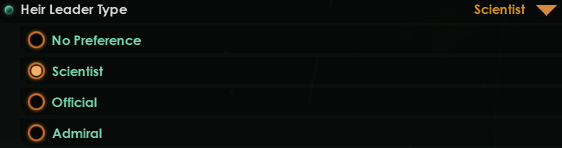
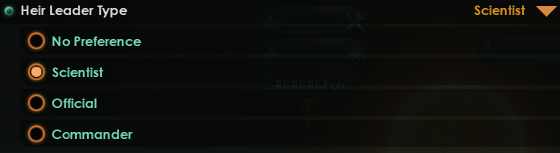
Fixed localisation issue

diff --git a/README.md b/README.md
@@ -43,3 +43,4 @@ The mod is quite simple. For every empire, there is always a 'policies' menu. Wi
 - v 1.1.2: Updated for version 3.8.4.
 - v 1.1.3: Updated for version 3.9
 - v 1.2: Updated for version 3.12.*. This is the first version since the leader rework to scientist, officials, and commanders.
+- v 1.2.1: Fixed an error in the localisation.
